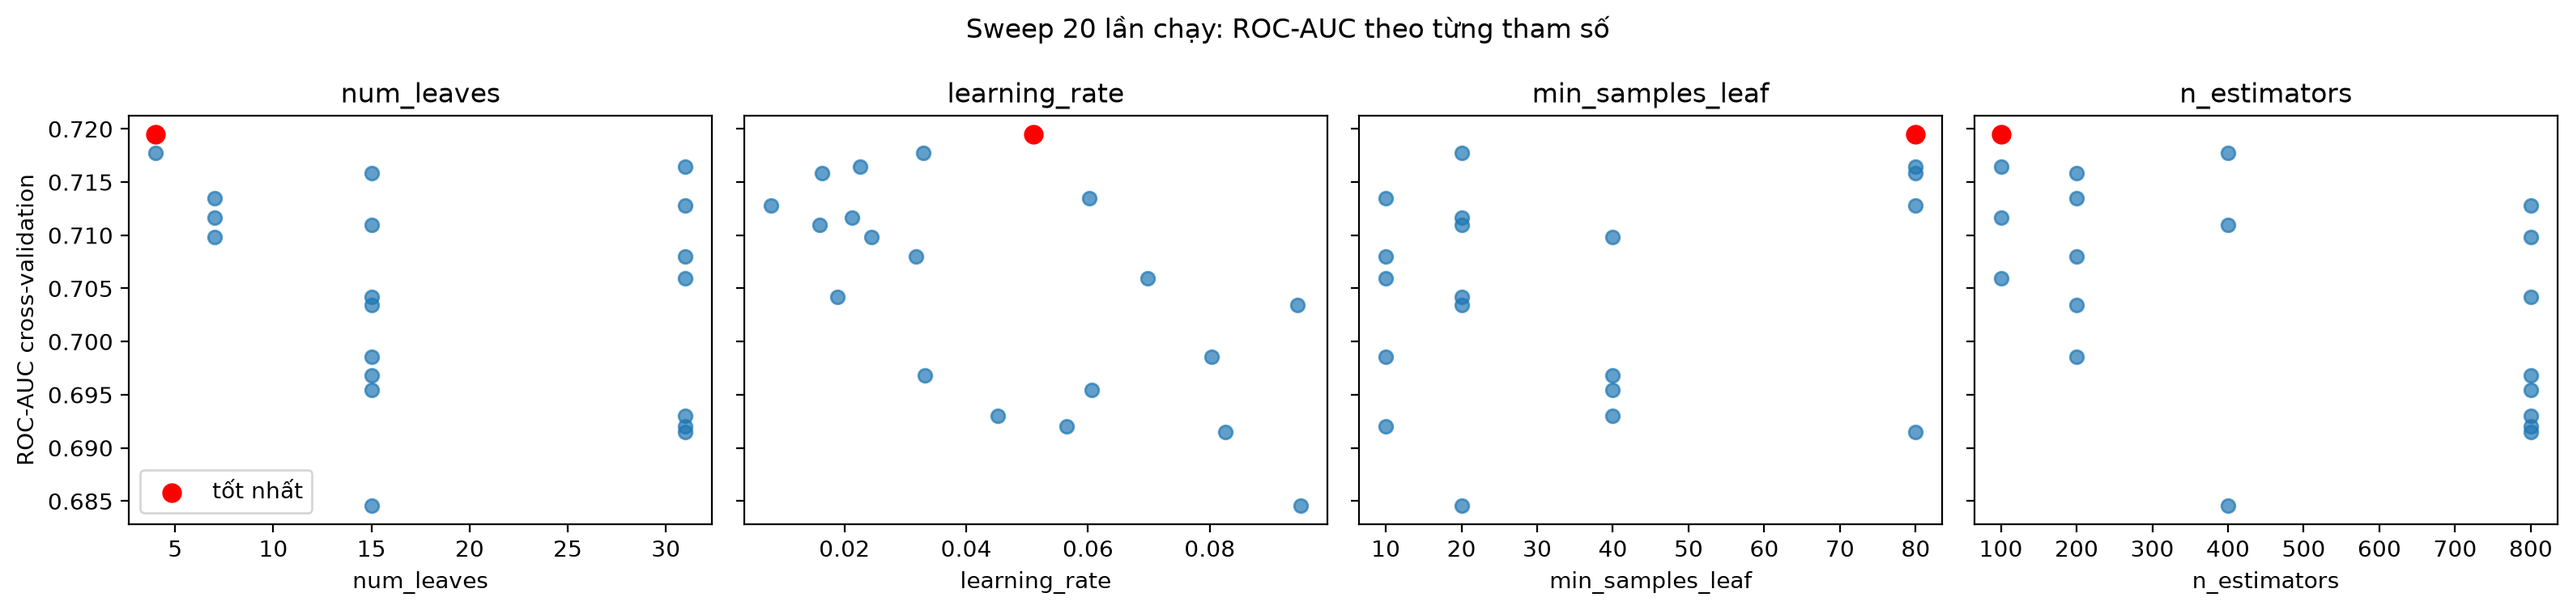
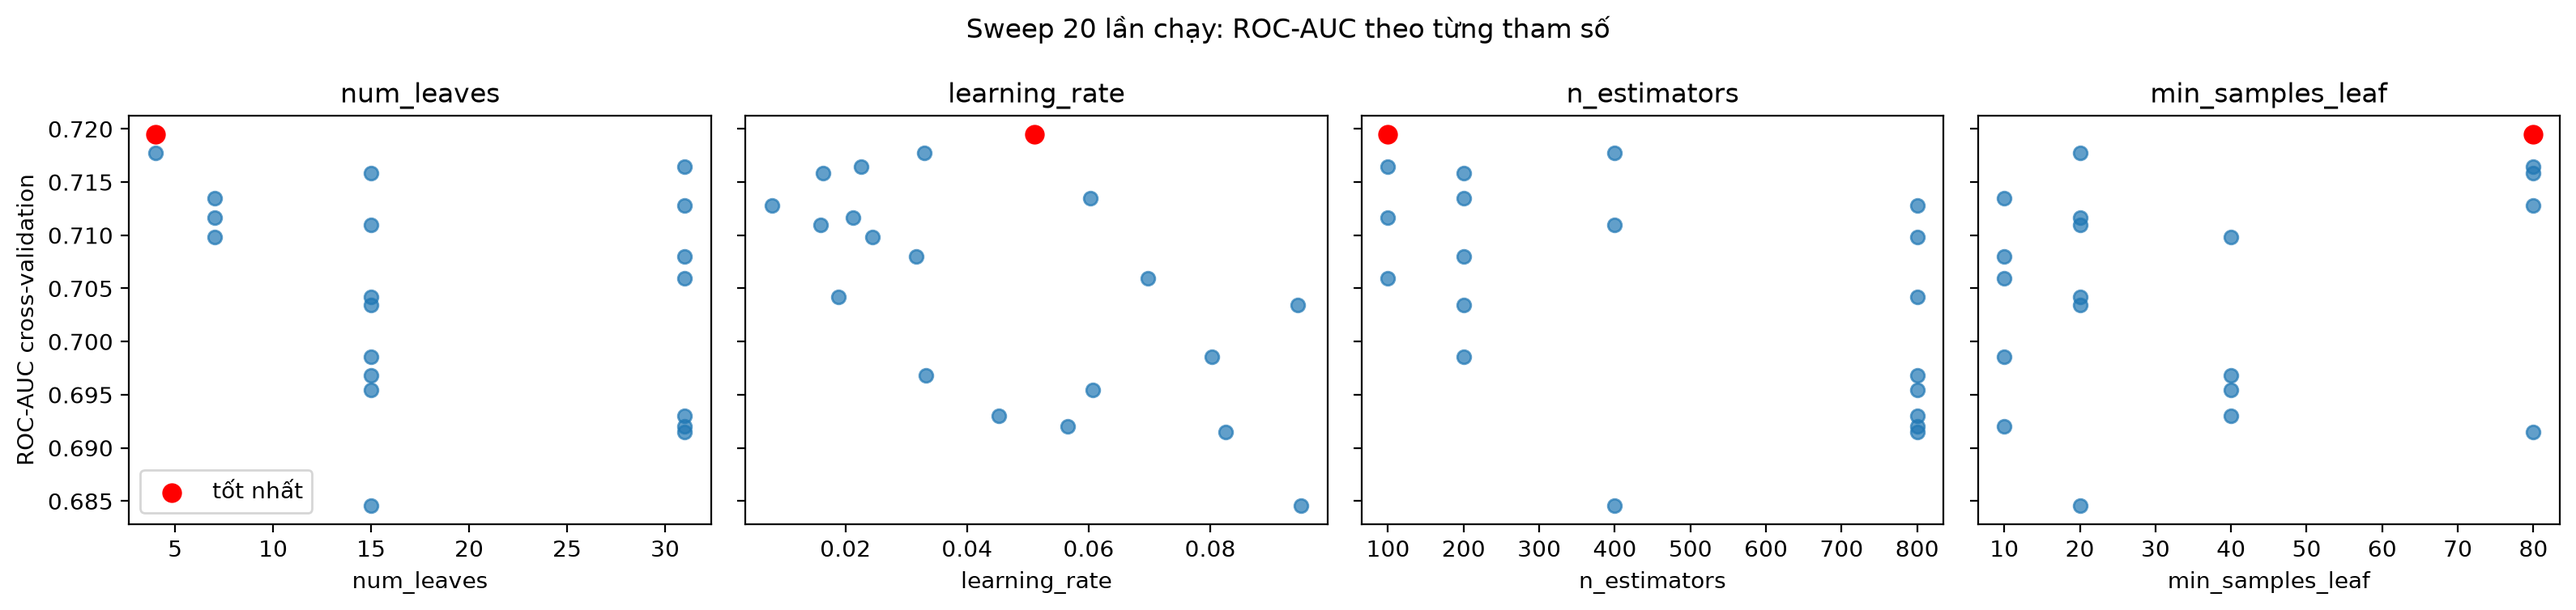
Sua nhan hinh so sanh, them hinh du doan cuoi HK1

diff --git a/ml/evaluate.py b/ml/evaluate.py
@@ -122,18 +122,32 @@ def load_aml(dst, run_ids=None):
 
 
 # ---------------------------------------------------------------- biểu đồ
+def model_label(m, models):
+    """Tên hiển thị của 1 model; thêm chú thích trong ngoặc khi cần phân biệt các bản cùng loại."""
+    meta, p = m["meta"], m["meta"].get("params", {})
+    name = NAMES.get(meta["model_name"], meta["model_name"])
+    if not meta.get("drop_sensitive", False):
+        name += " (+xuất thân, giới tính)"
+    if meta.get("drop_term2", False):
+        name += " (cuối HK1)"
+    if str(p.get("data_source", "")) == "curated":
+        name += " (curated)"
+    same = [x for x in models if x["meta"]["model_name"] == meta["model_name"]
+            and x["meta"].get("drop_term2") == meta.get("drop_term2")
+            and str(x["meta"].get("params", {}).get("data_source", "")) == str(p.get("data_source", ""))]
+    if meta["model_name"] == "lgbm" and len(same) > 1:
+        name += f" ({p.get('n_estimators')} cây, {p.get('num_leaves')} lá)"   # phân biệt bản mặc định / sau sweep
+    return name
+
+
+def wrap(label):
+    """Mỗi phần trong ngoặc xuống 1 dòng riêng để nhãn trục không đè lên nhau."""
+    return label.replace(" (", "\n(")
+
+
 def plot_compare(models, test):
     """Cột trái: metric cross-validation (5 fold trên tập dev) của từng model + mốc "đoán tất cả ở lại"."""
-    def label(m):
-        name = NAMES.get(m["meta"]["model_name"], m["meta"]["model_name"])
-        if not m["meta"].get("drop_sensitive", False):
-            name += " (+xuất thân, giới tính)"
-        p = m["meta"].get("params", {})
-        if m["meta"]["model_name"] == "lgbm" and sum(x["meta"]["model_name"] == "lgbm" for x in models) > 1:
-            name += f" ({p.get('n_estimators')} cây, {p.get('num_leaves')} lá)"   # phân biệt bản mặc định / sau sweep
-        return name
-
-    rows = [{"model": label(m),
+    rows = [{"model": model_label(m, models),
              **{k: m["meta"]["metrics"][k] for k in SHOW + ["cv_auc_std", "test_auc", "train_seconds"]}}
             for m in models]
     df = pd.DataFrame(rows).sort_values("cv_auc", ascending=False)
@@ -141,15 +155,20 @@ def plot_compare(models, test):
     base = pd.DataFrame([{"model": "Đoán tất cả ở lại", "cv_auc": 0.5, "cv_recall": 0.0, "cv_precision": 0.0,
                           "cv_f1": 0.0, "cv_accuracy": base_acc}])
     plot = pd.concat([df, base], ignore_index=True).set_index("model")[SHOW]
-    fig, (a1, a2) = plt.subplots(1, 2, figsize=(14, 4.8), gridspec_kw={"width_ratios": [3.2, 1]})
+    plot.index = [wrap(i) for i in plot.index]
+    n = len(plot)
+    fig, (a1, a2) = plt.subplots(1, 2, figsize=(max(14, 2.3 * n + 4), 5.6),
+                                 gridspec_kw={"width_ratios": [3.2, 1.1]})
     plot.rename(columns=lambda c: c.replace("cv_", "").upper()).plot.bar(ax=a1, rot=0, width=0.85)
     a1.set(ylim=(0, 1.05), ylabel="Cross-validation 5 fold (tập dev)", xlabel="",
            title="So sánh model: ROC-AUC, recall, precision, F1, accuracy (lớp dương = bỏ học)")
-    a1.legend(ncols=5, loc="upper center", bbox_to_anchor=(0.5, -0.08), frameon=False)
+    a1.tick_params(axis="x", labelsize=9)
+    a1.legend(ncols=5, loc="upper center", bbox_to_anchor=(0.5, -0.17), frameon=False)
     for c in a1.containers:
         a1.bar_label(c, fmt="%.2f", fontsize=7)
-    a2.barh(df["model"], df["train_seconds"], color="grey")
+    a2.barh([wrap(x) for x in df["model"]], df["train_seconds"], color="grey")
     a2.set(xlabel="Giây", title="Thời gian train (toàn bộ dev)")
+    a2.tick_params(axis="y", labelsize=9)
     a2.invert_yaxis()
     fig.tight_layout()
     save(fig, "10_so_sanh_model.png")
@@ -161,7 +180,7 @@ def plot_roc(models, test):
     for m in models:
         p = m["pipe"].predict_proba(test[m["meta"]["features"]])[:, 1]
         fpr, tpr, _ = roc_curve(test["dropout"], p)
-        ax.plot(fpr, tpr, label=f"{NAMES.get(m['meta']['model_name'])} (AUC {roc_auc_score(test['dropout'], p):.3f})")
+        ax.plot(fpr, tpr, label=f"{model_label(m, models)}: AUC {roc_auc_score(test['dropout'], p):.3f}")
     ax.plot([0, 1], [0, 1], "--", c="grey", lw=1)
     ax.set(xlabel="Tỉ lệ báo nhầm (FPR)", ylabel="Tỉ lệ phát hiện đúng (recall / TPR)", title="Đường ROC trên tập test")
     ax.legend(loc="lower right")
